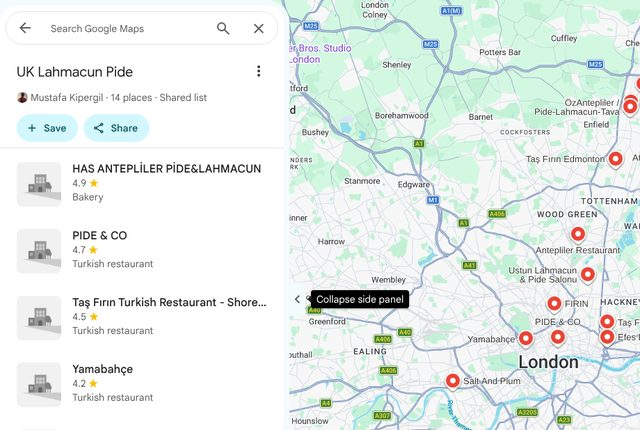
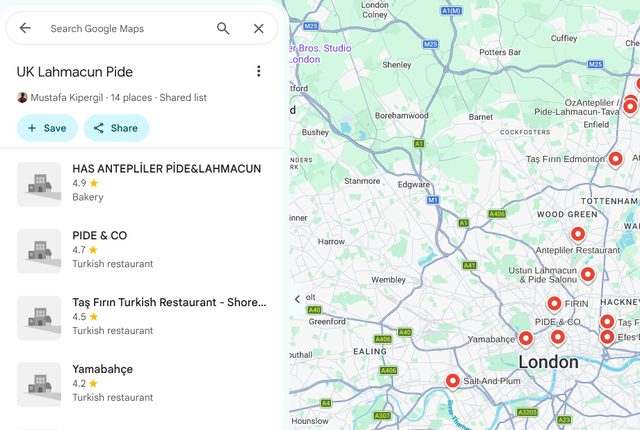
Add TT Venues and UK Houses & Gardens map lists
Also recapture the lahmacun thumbnail without a tooltip overlay.

Claude-Session: https://claude.ai/code/session_01Nhu7EA1zNUM9CcL2WDN5L2

Changed region(s): [[0.4688, 0.6651, 0.6562, 0.7256]]

diff --git a/index.html b/index.html
@@ -22,7 +22,7 @@
   <!--
     - custom css link
   -->
-  <link rel="stylesheet" href="./assets/css/style.css?v=5">
+  <link rel="stylesheet" href="./assets/css/style.css?v=6">
 
   <!--
     - google font link
@@ -983,6 +983,26 @@
               </a>
             </li>
 
+            <li class="project-item  active" data-filter-item data-category="table tennis">
+              <a href="https://maps.app.goo.gl/BXR7gQ7UMRn5Qdc67" target="_blank" rel="noopener">
+
+                <figure class="project-img">
+                  <div class="project-item-icon-box">
+                    <ion-icon name="map-outline" aria-hidden="true"></ion-icon>
+                  </div>
+
+                  <img src="./assets/images/tools/map-ttvenues.jpg" alt="TT Venues — Google Maps list" loading="lazy">
+                </figure>
+
+                <h3 class="project-title">TT Venues</h3>
+
+                <p class="project-category">Table tennis</p>
+
+                <p class="project-text">36 table-tennis clubs, centres and ping-pong bars around the UK, mostly in and around London, on a shared Google Maps list.</p>
+
+              </a>
+            </li>
+
             <li class="project-group  active" data-filter-item data-category="community maps">
               <h3 class="h3 project-group-title">Community maps</h3>
               <p class="project-group-text">Shared Google Maps lists I curate with the community.</p>
@@ -1064,6 +1084,26 @@
                 <p class="project-category">Community maps</p>
 
                 <p class="project-text">14 hand-picked spots for proper stone-oven lahmacun and pide.</p>
+
+              </a>
+            </li>
+
+            <li class="project-item  active" data-filter-item data-category="community maps">
+              <a href="https://maps.app.goo.gl/aryAd2bTEjGj6eKY7" target="_blank" rel="noopener">
+
+                <figure class="project-img">
+                  <div class="project-item-icon-box">
+                    <ion-icon name="map-outline" aria-hidden="true"></ion-icon>
+                  </div>
+
+                  <img src="./assets/images/tools/map-gardens.jpg" alt="UK Houses &amp; Gardens — Google Maps list" loading="lazy">
+                </figure>
+
+                <h3 class="project-title">UK Houses &amp; Gardens</h3>
+
+                <p class="project-category">Community maps</p>
+
+                <p class="project-text">122 stately homes, castles, parks and National Trust gardens across the UK, for weekend days out.</p>
 
               </a>
             </li>
@@ -1158,7 +1198,7 @@
   <!--
     - custom js link
   -->
-  <script src="./assets/js/script.js?v=5"></script>
+  <script src="./assets/js/script.js?v=6"></script>
 
   <!--
     - ionicon link
